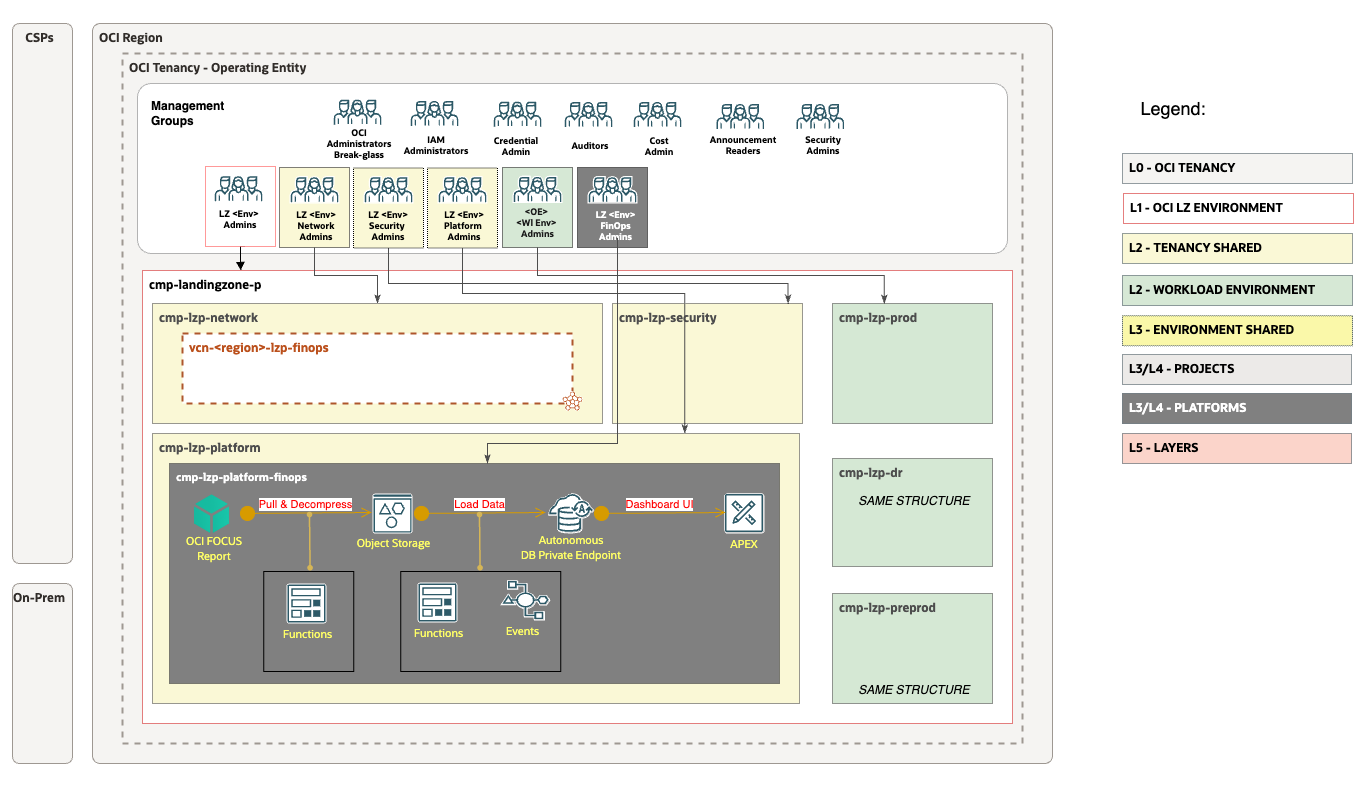
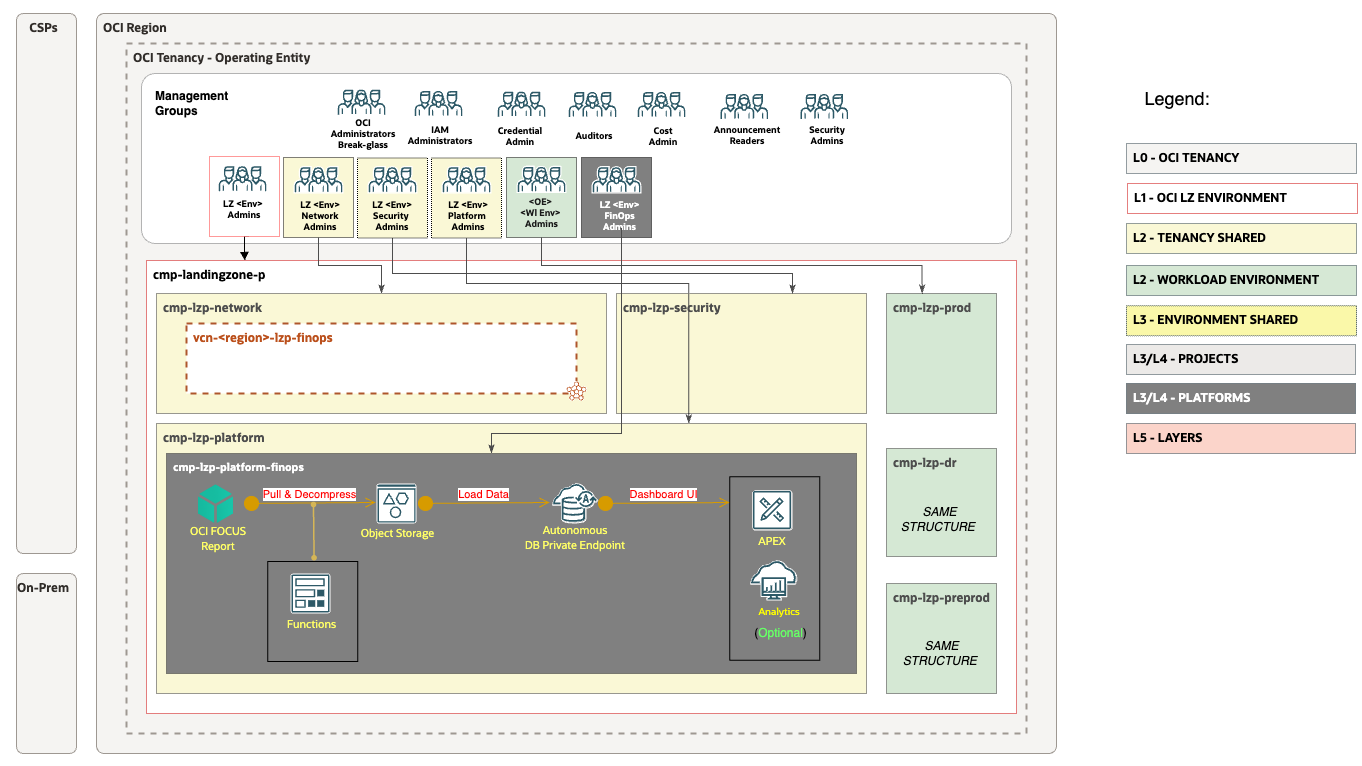
updating FinOps contents

diff --git a/addons/oci-finops/README.md b/addons/oci-finops/README.md
@@ -1,9 +1,10 @@
 # **[OCI FinOps Solution](#)**
 ## **An OCI Open LZ [Addon](#) that enables cost governance, visibility, and optimization through the FinOps solution**
 &nbsp;
+
 ## **Overview**
 
-The **OCI FinOps Solution** is an addon to the OCI Open Landing Zone framework. It enhances cost governance and financial visibility for Operating Entities by integrating **OCI FOCUS reports** with an **Autonomous Database and APEX-based dashboard** for insightful cost analysis.
+The **OCI FinOps Solution** is an addon to the OCI Open Landing Zone framework. It enhances cost governance and financial visibility for Operating Entities by integrating **OCI FOCUS reports** with an **Autonomous Database and a dashboard** for insightful cost analysis.
 
 The solution automates the complete workflow from fetching and processing FOCUS reports to securely ingesting them into ADB and visualizing them in a user-friendly interface. All components run within a secure private network setup in OCI.
 
@@ -17,21 +18,18 @@ The solution automates the complete workflow from fetching and processing FOCUS 
 
 ### OCI FinOps Addon Architecture
 
-<img src="images/OCI_FinOps_Arch.png" width="900" height="value">
+<img src="images/OCI_FinOps_Arch.png" width="900">
 
 ### OCI FinOps Addon Resources
 
-
 | **Resource** | **Description** |
 |--------------|------------------|
-| **Autonomous Database (ADB)** | Serves as the central data store for the FinOps solution. Provisioned with a **private endpoint** inside the VCN, it securely receives and stores the processed FOCUS report data, enabling backend processing and APEX visualization. |
-| **Object Storage Bucket** | Acts as the intermediate data lake where **FOCUS reports** are uploaded after being pulled and decompressed. It is monitored by **Event Services** to trigger data ingestion. |
-| **Function 1 – Fetch & Decompress** | A serverless function that authenticates with OCI APIs, pulls the **FOCUS cost and usage report** from the OCI Console, decompresses the file, and stores it into the Object Storage bucket. |
-| **Function 2 – Live Feed to ADB** | Triggered by an **Event** when a new report lands in the bucket, this function reads the report and ingests it into ADB. It uses the **private endpoint** to securely connect and perform insert operations into relevant ADB tables. |
-| **Event Service** | Monitors the Object Storage bucket for new report uploads. When a report is detected, it triggers **Function 2** to initiate the live data ingestion into ADB. |
-| **Oracle APEX** | Provides the **dashboard UI** that sits on top of ADB. It offers interactive charts, filtering, and analysis capabilities for FinOps stakeholders to gain insights from the FOCUS data. |
+| **Autonomous Database (ADB)** | Serves as the central data store for the FinOps solution. Provisioned with a **private endpoint** inside the VCN, it securely receives and stores the processed FOCUS report data, enabling backend processing and dashboard visualization. |
+| **Object Storage Bucket** | Acts as the intermediate data lake where **FOCUS reports** are uploaded after being pulled and decompressed. |
+| **Function – Fetch & Decompress** | A serverless function that authenticates with OCI APIs, pulls the **FOCUS cost and usage report** from the OCI Console, decompresses the file, and stores it into the Object Storage bucket. |
+| **UI Dashboard** | Presents the FinOps insights on top of the Autonomous Database. Tools like **Oracle APEX**, **Oracle Analytics Cloud**, or any preferred BI tool can be used to build the visualization layer. |
 | **VCN & Subnets** | A dedicated **Virtual Cloud Network** with private subnets to host the ADB with private endpoint, Functions, and other FinOps components in a secure and isolated manner. Ensures traffic stays within OCI without using public endpoints. |
-| **IAM Policies** | Fine-grained **Identity and Access Management** policies to allow Functions, Events, and users to access resources like Object Storage, ADB, and Metrics in a controlled and auditable manner. |
+| **IAM Policies** | Fine-grained **Identity and Access Management** policies to allow Functions and users to access resources like Object Storage, ADB, and Metrics in a controlled and auditable manner. |
 
 &nbsp;
 
@@ -39,13 +37,12 @@ The solution automates the complete workflow from fetching and processing FOCUS 
 
 &nbsp;
 
-
 ### Summary
 
-This addon enhances the [OCI One-OE Landing Zone](https://github.com/oci-landing-zones/oci-landing-zone-operating-entities/tree/master/blueprints/one-oe/runtime/one-stack) by embedding a FinOps platform that brings cost governance, financial visibility, and optimization. It automates the collection, processing, and visualization of OCI FOCUS reports using Functions, Object Storage, Autonomous Database (private endpoint), and APEX. The dashboard enables deep insights without requiring OCI login, making it suitable for finance, engineering, and business teams. It also supports multi-cloud use cases, allowing centralized cost analysis across multiple cloud platforms.
-
+This addon enhances the [OCI One-OE Landing Zone](https://github.com/oci-landing-zones/oci-landing-zone-operating-entities/tree/master/blueprints/one-oe/runtime/one-stack) by embedding a FinOps platform that brings cost governance, financial visibility, and optimization. It automates the collection, processing, and visualization of OCI FOCUS reports using Functions, Object Storage, Autonomous Database (private endpoint), and a dashboard layer. The solution enables deep insights without requiring OCI login, making it suitable for finance, engineering, and business teams. It also supports multi-cloud use cases, allowing centralized cost analysis across multiple cloud platforms.
 
 &nbsp;
+
 #### License
 Copyright (c) 2025 Oracle and/or its affiliates.
 
